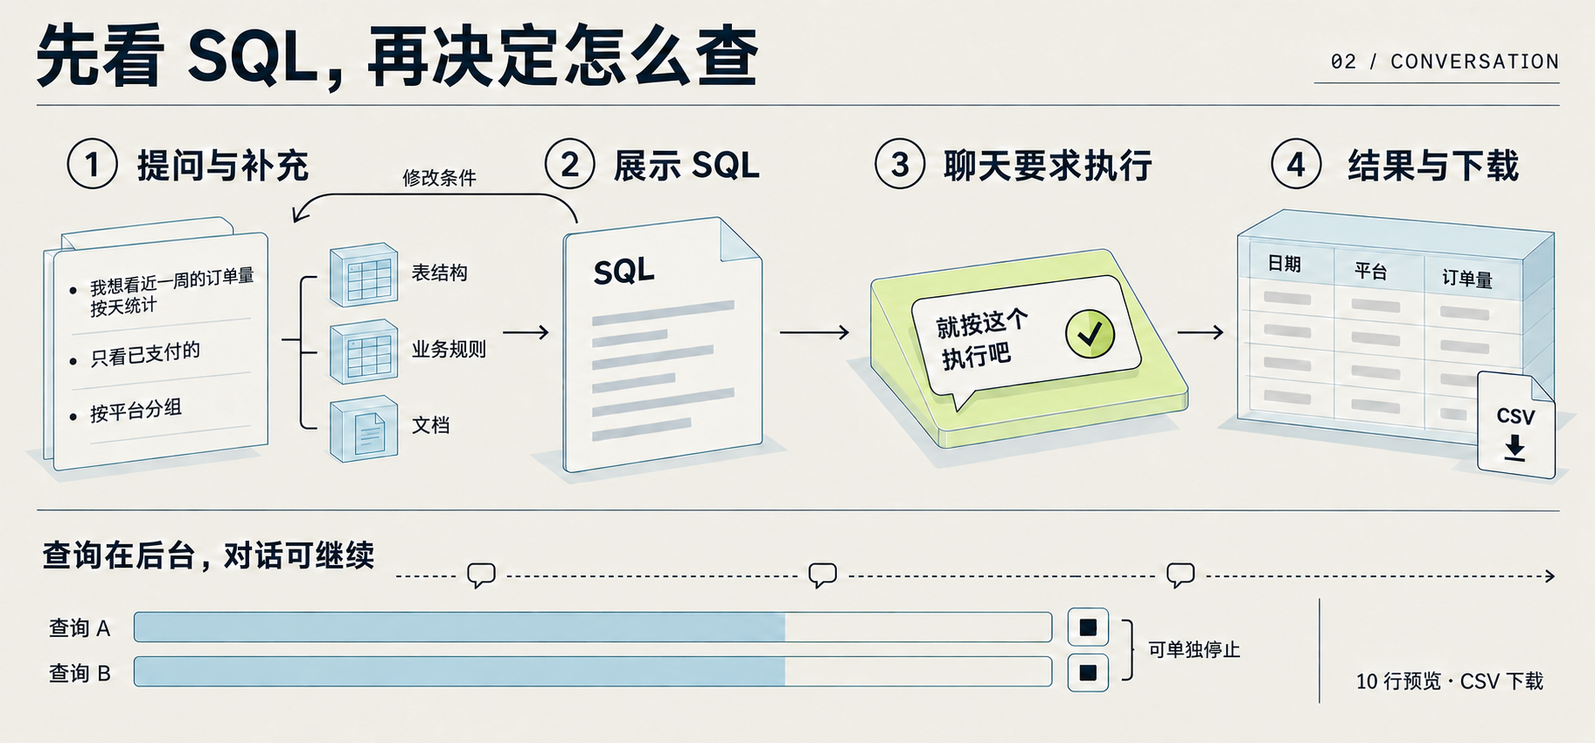
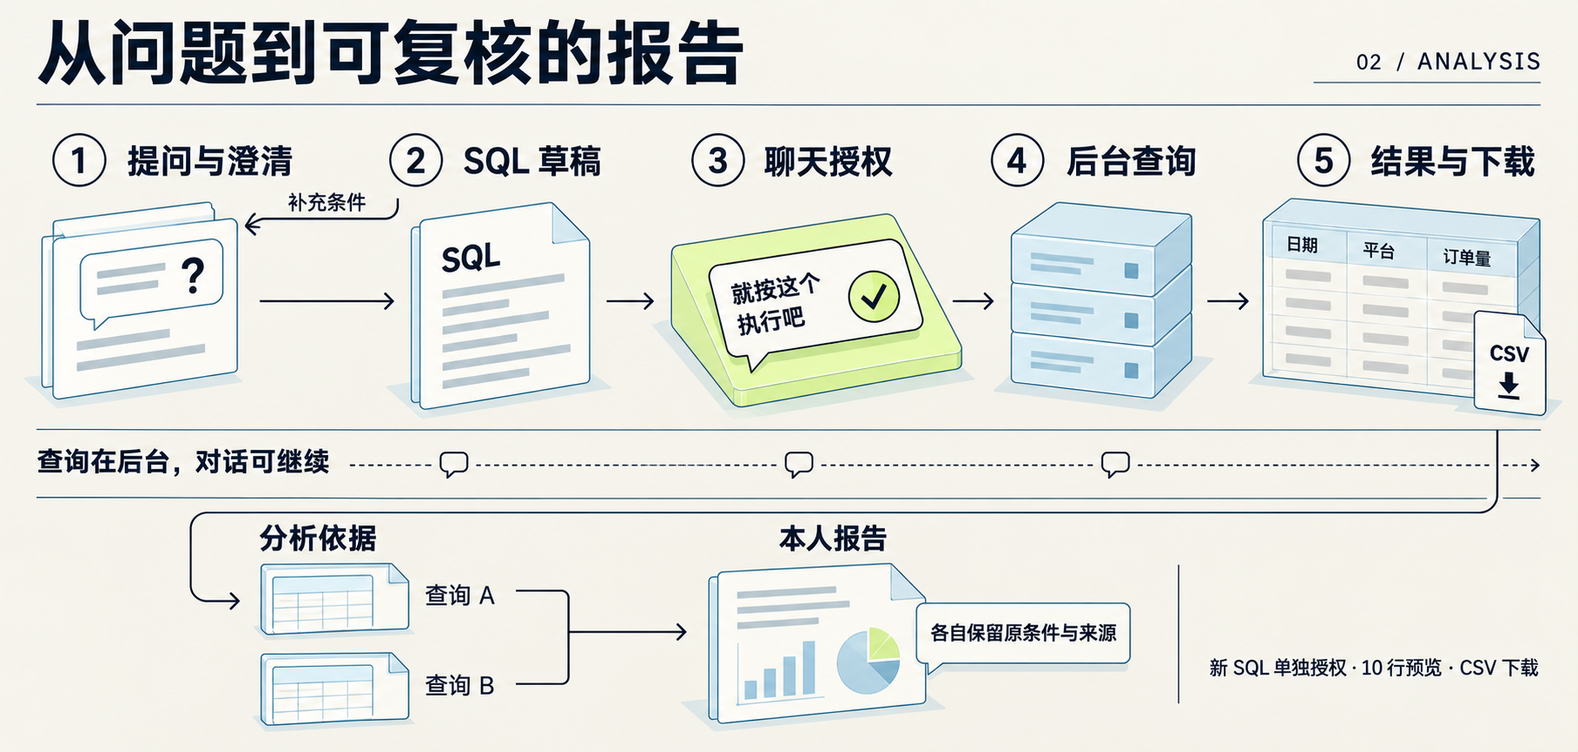
docs: refresh README diagrams and current application screenshots

Changed region(s): [[0.0, 0.1822, 0.9862, 0.972], [0.0, 0.0304, 0.9862, 0.1519], [0.7089, 0.7593, 0.7705, 0.7897]]

diff --git a/docs/images/README.md b/docs/images/README.md
@@ -1,45 +1,43 @@
 # README 图片来源
 
-这些图片用于[项目首页](../../README.md)。本轮共展示10张图：1张封面、4张概念说明图、4张实际页面截图和1张正式架构图。
+这些图片用于[项目首页](../../README.md)，共 11 张：1 张封面、4 张概念说明图、5 张实际页面截图和 1 张正式架构图。四张说明图和五张页面截图于 2026-10-20 更新。
 
 ## 视觉方向
 
-封面采用深墨色、米白大字和分层数据结构。正文用米白底、冰蓝结构和少量黄绿色标记，让来源、边界和用户操作成为图中的重点。说明图帮助理解流程；精确接口、组件与调用关系仍以[系统设计](../semantic-retrieval-design.md)和[架构说明](../architecture/README.md)为准。
-
-概念图的标题和箭头按现有能力核对。实际界面使用页面截图；图片中的账号、表、订单和文档均为项目合成资料。
+封面采用深墨色、米白大字和分层数据结构。正文用米白底、冰蓝结构和少量黄绿色标记，突出来源、权限边界与用户操作。说明图帮助理解对象和流程；精确接口与调用关系仍以[系统设计](../semantic-retrieval-design.md)和[架构说明](../architecture/README.md)为准。
 
 ## 图片清单
 
 | 文件 | 来源与用途 |
 | --- | --- |
-| [data-agent-cover.png](data-agent-cover.png) | 2026-10-11，内置 GPT Image 生成。深色封面，以分层数据结构、查询和独立记忆块表现产品主题。 |
-| [semantic-construction.png](semantic-construction.png) | 2026-10-11，内置 GPT Image 生成。平台资料、来源事实、模型建议与人工修改如何组成语义记录。 |
-| [conversation-query-flow.png](conversation-query-flow.png) | 2026-10-11，内置 GPT Image 生成。SQL 先展示，经聊天要求执行；查询在后台运行，支持单独停止。 |
-| [knowledge-recall.png](knowledge-recall.png) | 2026-10-11，内置 GPT Image 生成。共享语义与个人记忆分开检索，候选回源核对权限、版本和状态。 |
-| [skill-reuse.png](skill-reuse.png) | 2026-10-11，内置 GPT Image 生成。个人 Skill 可直接选用，明确发布才生成独立公共副本；选用后由 Pi 原生能力加载。 |
-| [workbench-sql.jpg](workbench-sql.jpg) | 2026-10-11，本地正式工作台截图，展示合成订单结果、CSV 下载、最终 SQL 与模型选择 |
-| [semantic-management.jpg](semantic-management.jpg) | 2026-10-11，本地正式语义管理页截图，合成维护者 Carol 按本人负责范围查看表与字段 |
-| [personal-skills.png](personal-skills.png) | 现有资产体验浏览器检查的 1440 × 1000 截图，展示分析模板、正文、适用范围、附件与保存操作 |
-| [model-configuration.png](model-configuration.png) | 2026-10-20，本地正式模型配置页，合成管理员 Alice 查看首次导入的服务与模型；只有密钥已设置状态，无凭据值 |
-| [data-agent-overview.svg](../architecture/data-agent-overview.svg) | 现有正式架构总览；另有[可编辑 draw.io](../architecture/data-agent-c4-container.drawio) |
+| [data-agent-cover.png](data-agent-cover.png) | 2026-10-11，内置 GPT Image 生成。产品主题封面，本次核对后保留。 |
+| [semantic-construction.png](semantic-construction.png) | 2026-10-20 重绘。来源事实、模型建议与人工修改分别保留；纠错建议经负责人核对、编辑并保存，语义维护权与平台查询权分开。 |
+| [conversation-query-flow.png](conversation-query-flow.png) | 2026-10-20 重绘。从问题、SQL 草稿和聊天授权，到后台查询、分析依据与本人报告；每份依据保留原条件与来源。 |
+| [knowledge-recall.png](knowledge-recall.png) | 2026-10-20 重绘。共享语义与个人记忆分别检索；报告和个人方法保存来源，再次读取时重新核验。 |
+| [skill-reuse.png](skill-reuse.png) | 2026-10-20 重绘。分析成果先形成本人方法草稿，编辑保存后成为个人 Skill；明确发布生成独立公共副本，明确选用后由 Pi 按需读取。 |
+| [workbench-sql.jpg](workbench-sql.jpg) | 2026-10-20，当前工作台截图。合成一季度月度净收入、实际 SQL、CSV 下载和模型选择。 |
+| [analysis-report.png](analysis-report.png) | 2026-10-20，当前分析报告截图。滚动至主要结论与图表，展示精确金额、解读范围和查询来源。 |
+| [semantic-management.jpg](semantic-management.jpg) | 2026-10-20，当前语义管理页。合成管理员 Alice 按表浏览订单资料与维护入口。 |
+| [personal-skills.png](personal-skills.png) | 2026-10-20，当前“确认个人 Skill”页面。核对本次分析形成的方法草稿、适用范围与附件，再保存为本人资产。 |
+| [model-configuration.png](model-configuration.png) | 2026-10-20，当前模型配置页。合成管理员维护示例服务与模型；只展示凭据已设置状态，未连接真实供应商。 |
+| [data-agent-overview.svg](../architecture/data-agent-overview.svg) | 2026-10-20 已更新的正式架构总览，本次重新核对；另有[可编辑 draw.io](../architecture/data-agent-c4-container.drawio)。 |
 
-工作台和语义截图按浏览器实际返回的 JPEG 格式保存，未重新绘制界面。旧截图保留为历史资料；旧封面与旧版图片说明可从 Git 历史查看。浏览器业务试用范围见[本地试用记录](../reviews/local-dogfood-20261011.md)。
+## 页面截图如何取得
+
+截图沿用仓库 `tests/mvp/harness.mjs`，启动隔离数据库、当前 Rust API / Worker、合成 SQLite 平台和 React 页面；浏览器视口为 1440 × 1060。合成数据来自 `docs/sources/analysis`，查询采用该目录中独立验收的月度净收入 SQL。一月至三月的净收入分别为 102000、113000、134000 分，截图没有换算成元。
+
+工具选择和对话正文由截图脚本控制。SQL 经聊天执行授权工具提交，在合成平台实际运行；分析依据、报告和待确认方法由正式业务入口保存，再从真实页面截图。个人方法随后通过页面确认保存。该过程没有调用付费模型，不证明模型能自主完成同样的分析。
+
+模型管理图中的服务名称、模型限制和价格是隔离环境的示例配置，不是供应商报价或兼容性验证。凭据为专用合成占位值，不出现在截图中。截图未读取本地日常试用聊天，未改写页面 DOM 或拼接界面；报告只通过正常滚动定位。截图环境结束后关闭并清理，不影响原本地服务。
+
+旧图及旧提示词可以从 Git 历史查看。真实模型、真实平台的验证范围仍以 [CURRENT](../CURRENT.md) 为准。
 
 ## 生成提示词
 
-生成方式：内置 `image_gen` 工具，未使用 CLI 或额外 API 凭据。以下是本次实际使用的提示词；图片已复制到本目录。查询图生成后，将额外出现的“历史示例”改为“文档”，避免暗示独立的历史 SQL 检索能力；中间一次编辑出现错字，最终定向修正提示词见下。
+使用内置 `image_gen`，未使用 CLI 或额外 API 凭据。四张新图分别以对应旧图作为视觉风格参考，完整重绘内容。以下保留本次实际提示词和沿用封面的原始提示词。
 
 <details>
-<summary>对话查询图 · 最终文字修正</summary>
-
-```text
-Correct a single label in the attached diagram. To the left of the large SQL sheet there are three small blue evidence blocks. Their labels are arranged vertically. The bottom label currently contains incorrect Chinese characters. Completely erase that entire bottom label and typeset only these TWO large Chinese characters: "文档". It must be exactly 文 followed by 档, with no characters before or after it. Match the existing dark text size and baseline. Leave the other two labels "表结构" and "业务规则", all other text, arrows, graphics, colors, dimensions, and layout completely unchanged. Do not regenerate the rest of the illustration.
-```
-
-</details>
-
-<details>
-<summary>新封面 · data-agent-cover.png</summary>
+<summary>封面 · data-agent-cover.png</summary>
 
 ```text
 Create a distinctive, art-directed cover for the GitHub README of "Data Agent", a real data analysis workbench built around shared semantic knowledge, conversational SQL and private memory.
@@ -57,68 +55,73 @@ Avoid robots, brains, chat-bubble clipart, books, plants, rocket icons, stock Sa
 </details>
 
 <details>
-<summary>语义构建 · semantic-construction.png</summary>
+<summary>共享语义与维护归属 · semantic-construction.png</summary>
 
 ```text
-Create a wide landscape 2.15:1 explanatory illustration for a Chinese developer-facing GitHub README. Art direction: a premium printed technical atlas, warm ivory paper #f2f0e7, dark ink #111c23, translucent ice-blue structures #a9cbd8, sparing chartreuse highlights #d4ec74. Large impeccably legible Chinese sans-serif text. Fine engineering rules and shallow axonometric depth, generous margins, visually organized and calm. It must be easy to read at 1000 pixels wide. No fake app UI, no logos, no people, no robot, no brain, no plant or book clipart, no gradients or glow, no tiny decorative type. It is an explanatory plate, with accurate relationships; limit written text to the exact strings specified.
-Title top left exactly "语义从哪里来". Small plate label "01 / SEMANTICS".
-Below, make a three-part left-to-right composition, with each part built from beautiful ruled sheets and subtle glasslike structured blocks.
-LEFT at 10-28%: three fanned source sheets with readable labels "元数据", "血缘", "加工 SQL". Group label "平台资料".
-MIDDLE at 40-63%: three visibly separate horizontal layers, aligned vertically, large clear labels "来源事实", "模型建议", "人工修改". The manual layer has a distinct chartreuse highlighted tab and a small pen mark. All three layers are preserved independently. A branch from the left sources feeds the first two layers. A small neutral edit symbol feeds the manual layer.
-RIGHT at 76-93%: an orderly semantic catalog block with four clear rows "表与字段", "指标与 SQL", "业务文档", "关联关系". Group label "共享语义".
-Use thin clear arrows from all three middle layers to the catalog. This depicts the composition of semantic information; it is NOT an automatic publishing pipeline or a claim that every entry is human verified. Use one short highlighted note along the bottom: "重新预填，保留人工修改".
-Do not add a mandatory review gate or the words 自动发布, 全部验证, or 高准确率. Hierarchy: main title largest, group headings next, row labels clearly readable.
+Use the input image only as a visual style reference. Create a NEW complete explanatory plate for the current Data Agent GitHub README. Landscape about 2.1:1. Retain the premium technical-atlas look: warm ivory paper, near-black Chinese typography, fine engineering rules, translucent ice-blue structures and small chartreuse highlights. Simplify the scene enough to read at 1000px width. All Chinese must be accurate and large. This is a conceptual diagram, never a fake product screenshot. No performance claims, no robots, no decorative prose, no additional labels beyond those specified. Diagrams must show the stated arrows accurately and avoid overlaps.
+Title "语义有来源，修改有归属". Small plate number "01 / SEMANTICS".
+Upper main row, left to right:
+LEFT a group "平台资料" with three sheets "元数据", "血缘", "加工 SQL".
+CENTER three distinct stacked layers "来源事实", "模型建议", "人工修改". Platform materials feed the first two; a separate pen feeds manual changes. Each layer leads to the right.
+RIGHT "共享语义" organized as three rows "表与字段", "指标与计算 SQL", "业务文档与关系".
+A small note under center "重新预填，保留人工值".
+LOWER clearly separated governance lane with three steps "纠错建议" → "负责人核对" → "编辑并保存". The final step points upward into shared semantics; the first step has no direct arrow to the official content. Caption "接受建议不等于正式生效".
+Bottom note "语义维护权与平台查询权分别校验".
+Make the governance lane prominent and visually distinct from source ingestion. The image should explain current ownership and review without implying all model suggestions require manual approval.
 ```
 
 </details>
 
 <details>
-<summary>对话查询 · conversation-query-flow.png</summary>
+<summary>从问题到报告 · conversation-query-flow.png</summary>
 
 ```text
-Create a wide landscape 2.15:1 explanatory illustration for a Chinese developer-facing GitHub README. Art direction: a premium printed technical atlas, warm ivory paper #f2f0e7, dark ink #111c23, translucent ice-blue structures #a9cbd8, sparing chartreuse highlights #d4ec74. Large impeccably legible Chinese sans-serif text. Fine engineering rules and shallow axonometric depth, generous margins, visually organized and calm. It must be easy to read at 1000 pixels wide. No fake app UI, no logos, no people, no robot, no brain, no plant or book clipart, no gradients or glow, no tiny decorative type. It is an explanatory plate, with accurate relationships; limit written text to the exact strings specified.
-Title top left exactly "先看 SQL，再决定怎么查". Small plate label "02 / CONVERSATION".
-Create a clean four-stage horizontal story, using physical query sheets, small data grids and fine arrows, not browser mockups. Large stage labels in order:
-"提问与补充" → "展示 SQL" → "聊天要求执行" → "结果与下载".
-First stage shows short abstract question lines and a small branching evidence route. Second stage shows a single light query sheet with only the word "SQL" and typographic placeholder lines, not actual code. Third stage has a chartreuse highlight, visibly representing the user's decision. Fourth stage shows a precise little result table and download mark.
-Above the first two stages, a small return arrow from the SQL sheet back toward the question is labelled exactly "修改条件"; this loop does not reach the execution stage. No arrow bypasses "聊天要求执行".
-Below, separated by a thin horizontal rule, show a wide timeline with two slim parallel running bars labelled "查询 A" and "查询 B" and a thin line of continuing conversation across them. Use the label "查询在后台，对话可继续". Put a small stop mark next to each query bar and one shared label "可单独停止".
-At the far lower right a concise readable footer: "10 行预览 · CSV 下载".
-No stopwatch values, no completion percentage, no fake claims about response speed, no invented data. Make the top reading path extremely obvious and preserve a lot of whitespace between stages.
+Use the input image only as a visual style reference. Create a NEW complete explanatory plate for the current Data Agent GitHub README. Landscape about 2.1:1. Retain the premium technical-atlas look: warm ivory paper, near-black Chinese typography, fine engineering rules, translucent ice-blue structures and small chartreuse highlights. Simplify the scene enough to read at 1000px width. All Chinese must be accurate and large. This is a conceptual diagram, never a fake product screenshot. No performance claims, no robots, no decorative prose, no additional labels beyond those specified. Diagrams must show the stated arrows accurately and avoid overlaps.
+Title "从问题到可复核的报告". Small plate number "02 / ANALYSIS".
+Top clear five-step reading path with restrained sheet/database/result icons:
+"提问与澄清" → "SQL 草稿" → "聊天授权" → "后台查询" → "结果与下载".
+Add a return arrow from SQL draft to question labelled "补充条件".
+Highlight only the explicit chat authorization step in chartreuse. Nothing bypasses it.
+Lower row continues from query results to "分析依据" and then "本人报告". Show two smaller evidence sheets converging on one report to express multiple evidence sources. Their only labels are "查询 A" and "查询 B". One small report label "各自保留原条件与来源".
+Under the top flow, separate thin continuous conversation line labelled "查询在后台，对话可继续".
+Footer "新 SQL 单独授权 · 10 行预览 · CSV 下载".
+Do not invent charts or numbers. No mandatory sequence of model tool calls: this is the product's object relationships. Strong visual distinction between query result and saved analysis report.
 ```
 
 </details>
 
 <details>
-<summary>共享语义与个人记忆召回 · knowledge-recall.png</summary>
+<summary>检索与来源有效性 · knowledge-recall.png</summary>
 
 ```text
-Create a wide landscape 2.15:1 explanatory plate for a Chinese developer-facing GitHub README, part of a cohesive "anatomy of a data question" visual series. Premium technical atlas style: warm ivory paper #f2f0e7, near-black ink #111c23, translucent ice-blue axonometric structures #a9cbd8, restrained chartreuse #d4ec74 to mark an important boundary. Beautiful large Chinese sans-serif headings, secondary text remains readable at 1000px width. Clean thin rules, generous margins, shallow tactile depth, no fake UI or browser chrome. Avoid robots, brains, plants, generic clipart, neon, glows and purple. A correct, lucid diagram with an editorial presence. Use only the specified text and no extra examples or tiny gibberish.
-Title at top left: "共享知识，个人经验". Small plate label "03 / RECALL".
-Composition: two separate parallel left-to-right retrieval lanes in the left 60% of the image, converging ONLY at a visible common validation gate at 72%, then ending at a single conversation destination at 91%.
-Upper lane: a translucent organized catalog block with title "共享语义" and subtitle "表 · 字段 · 指标 · 文档". A short arrow leads to a compact search lens / structured index shape labelled "名称 · 关键词 · 向量".
-Lower lane: a smaller personal archive tile with a subtle lock and title "个人记忆". Directly below: "按用户与空间隔离". Its separate arrow leads to a matching search lens / index shape labelled "Mem0".
-Keep a thin clear horizontal separator between these lanes. There is NO arrow from personal memory into shared knowledge. Under the two search index shapes, a bracket label "Milvus · 独立集合". This means both paths use distinct collections, not a common shared memory pool.
-Both lanes point toward one visibly emphasized validation station, chartreuse accents, title "回源校验", subtitle "权限 · 版本 · 状态". Put a small authoritative datastore block below this station labelled "MySQL" connected by a fine vertical line.
-Only AFTER this station is an arrow to a crisp plain stack of conversation sheets titled "当前对话".
-Along the bottom a single concise note: "命中候选 ≠ 可以直接使用".
-Do not imply that index hits automatically authorize use, that personal memory becomes global, that all data is public, or that Mem0 replaces MySQL. Keep arrows distinct and typography large.
+Use the input image only as a visual style reference. Create a NEW complete explanatory plate for the current Data Agent GitHub README. Landscape about 2.1:1. Retain the premium technical-atlas look: warm ivory paper, near-black Chinese typography, fine engineering rules, translucent ice-blue structures and small chartreuse highlights. Simplify the scene enough to read at 1000px width. All Chinese must be accurate and large. This is a conceptual diagram, never a fake product screenshot. No performance claims, no robots, no decorative prose, no additional labels beyond those specified. Diagrams must show the stated arrows accurately and avoid overlaps.
+Title "检索之后，来源继续跟着内容". Small plate number "03 / SOURCES".
+Left half has two independent retrieval lanes:
+top "共享语义" with small sublabel "名称 · 关键词 · 向量";
+bottom "个人记忆" with small sublabel "Mem0 · 用户与空间隔离".
+They meet only at a clear validation gate "回源校验", sublabel "权限 · 版本 · 状态", connected below to "MySQL".
+After this gate arrow to "当前对话".
+From current conversation an arrow labelled "保存来源" goes downward to a group "报告与个人方法".
+Then arrow to "再次读取", with a small gate labelled "重查来源".
+Final bottom emphasis "来源失效，隐藏相关正文".
+Do not imply all persistent objects have the same invalidation granularity. The footer is general. No guarantee of correctness, complete retrieval, or perfect citations. Keep arrows uncrossed and both personal/shared lanes clearly separate.
 ```
 
 </details>
 
 <details>
-<summary>个人与公共 Skill 复用 · skill-reuse.png</summary>
+<summary>方法草稿与 Skill 复用 · skill-reuse.png</summary>
 
 ```text
-Create a wide landscape 2.15:1 explanatory plate for a Chinese developer-facing GitHub README, part of a cohesive "anatomy of a data question" visual series. Premium technical atlas style: warm ivory paper #f2f0e7, near-black ink #111c23, translucent ice-blue axonometric structures #a9cbd8, restrained chartreuse #d4ec74 to mark an important boundary. Beautiful large Chinese sans-serif headings, secondary text remains readable at 1000px width. Clean thin rules, generous margins, shallow tactile depth, no fake UI or browser chrome. Avoid robots, brains, plants, generic clipart, neon, glows and purple. A correct, lucid diagram with an editorial presence. Use only the specified text and no extra examples or tiny gibberish.
-Title at top left: "把分析方法留给下一次". Small plate label "04 / SKILLS".
-Create a clear spacious diagram about personal and public analysis Skills, with separate ownership and explicit selection. Upper left: a folded method packet labelled "个人 Skill", with an abstract text template sheet and two attached smaller sheets, no code. Upper middle: a thin arrow labelled "明确发布" pointing to an independent second packet at upper right labelled "公共副本". Below the second packet, readable short text "独立维护".
-At lower center, a small chartreuse selection junction titled "明确选用". Two clearly separate thin arrows go from the PERSONAL packet and the PUBLIC packet into this junction. This shows either may be selected. The public packet is optional; the personal packet does not have to be published before use.
-From the selection junction, draw one clean horizontal arrow into a precise layered resource block titled "Pi 原生 Skill", with three small readable contents: "正文", "说明", "文本模板". Then a short arrow reaches a rightmost compact plain sheet stack titled "当前对话".
-Use deliberate balanced spacing, avoid crossing arrows, and ensure "明确发布" applies only to making the public copy, while "明确选用" applies to using either kind.
-Along the bottom margin separated by a thin rule, place one short note exactly: "私人记忆与聊天不会随发布公开".
-No automated publication, no global unrestricted access, no model selecting methods without the user's choice, no fake app screenshot. The diagram explains method reuse; it is not a replacement for the software architecture diagram.
+Use the input image only as a visual style reference. Create a NEW complete explanatory plate for the current Data Agent GitHub README. Landscape about 2.1:1. Retain the premium technical-atlas look: warm ivory paper, near-black Chinese typography, fine engineering rules, translucent ice-blue structures and small chartreuse highlights. Simplify the scene enough to read at 1000px width. All Chinese must be accurate and large. This is a conceptual diagram, never a fake product screenshot. No performance claims, no robots, no decorative prose, no additional labels beyond those specified. Diagrams must show the stated arrows accurately and avoid overlaps.
+Title "把这次分析，留成下次的方法". Small plate number "04 / SKILLS".
+Top main path: "分析成果" → "本人方法草稿" → "编辑并保存" → "个人 Skill".
+Use a small report, a draft page, an editing pen, and a substantial method packet. Clearly show saving the draft does not itself select the method.
+Second row: a branch from personal Skill labelled "明确发布" leads to "公共副本", with sublabel "独立维护".
+Both personal Skill and public copy have separate arrows into a chartreuse junction "明确选用".
+After that junction arrow to a structured resource "Pi 按需读取" with the three short lines "正文", "说明", "文本模板".
+Footer "来源失效仍需核对 · 私人聊天不会随发布公开".
+Use a readable layout with no crossing connectors. Preserve the fact that a personal Skill can be selected without publication. No automated publishing or implicit authorization arrows.
 ```
 
 </details>

diff --git a/docs/CURRENT.md b/docs/CURRENT.md
@@ -169,6 +169,18 @@
 
 # Data Agent 当前记录
 
+## README 配图更新（2026-10-20）
+
+用户指出 README 多张图仍为早期版本，要求更新并推送。本轮在 `codex/readme-current-figures` 核对四张功能说明图及实际界面截图：共享语义归属与纠错、多来源分析报告、持久正文的来源失效、个人方法草稿和显式选用。范围仅 README、图片及来源说明、必要的本地截图脚本和本记录；既有架构与业务实现不变，不新增付费模型试验。封面作为产品标识单独核对，不把图像生成或模拟流程当成模型能力证据。
+
+截图使用当前应用和隔离合成资料，避免使用实际试用聊天；图片正文、README 页面效果与移动端分别检查。完成后先合入现有默认分支 `codex/semantic-maintenance-prototype`，再推送并核对远端图片内容，保留原工作台服务。
+
+配图已完成：四张功能说明图全部重绘，原四张页面截图全部替换，新增一张分析报告截图；README 共展示 11 张图。产品封面核对后保留，架构总览沿用当天已更新的版本。图片文件、替代文本、图注及 `docs/images/README.md` 的来源清单和实际生成提示词同步更新。
+
+五张页面截图来自隔离测试库和当前正式 React / Rust / 合成 SQLite 平台。受控工具调用完成聊天授权、查询、依据与报告保存；月度净收入原值与独立预期 102000、113000、134000 分一致；方法草稿通过页面确认保存为个人 Skill。模型管理图使用明确标注的示例配置。没有付费模型调用，未读取日常试用聊天，截图流程不构成真实模型质量验收。过程与结果在 `.local/readme-current-figures/capture.mjs` 和 `capture-result.json`。
+
+验证：本地 Markdown 渲染在 1440px 与 390px 宽度下，11 张图均加载成功，页面与图片没有横向溢出；逐图核对文字、箭头与界面内容。`make verify-delivery verify-materials` 通过，含 16 项交付检查器测试、377 项材料静态检查与 215 个文档链接；`git diff --check` 通过。原本地 API、Agent Bridge、平台、Mem0 与 Web 均返回 200。渲染、检查与服务健康收据保存在同一忽略目录；合并及远端逐文件校验结果另存 `git-delivery.json`。本轮只改文档和图片，沿用已完成的业务验收，不重复全量或付费试验。
+
 ## 收尾完成：阶段试用版与工程文章（2026-10-20）
 
 用户接受阶段试用版定位，要求同步仓库文档和架构图、分批提交推送、更新本地服务，并润色、配图和发表系列文章。此授权取代上一节模型配置增量中“不提交推送或更新常驻服务”的本轮操作限制；不增加产品功能，不把原可靠性验收改为通过，不追加模型质量抽样。
